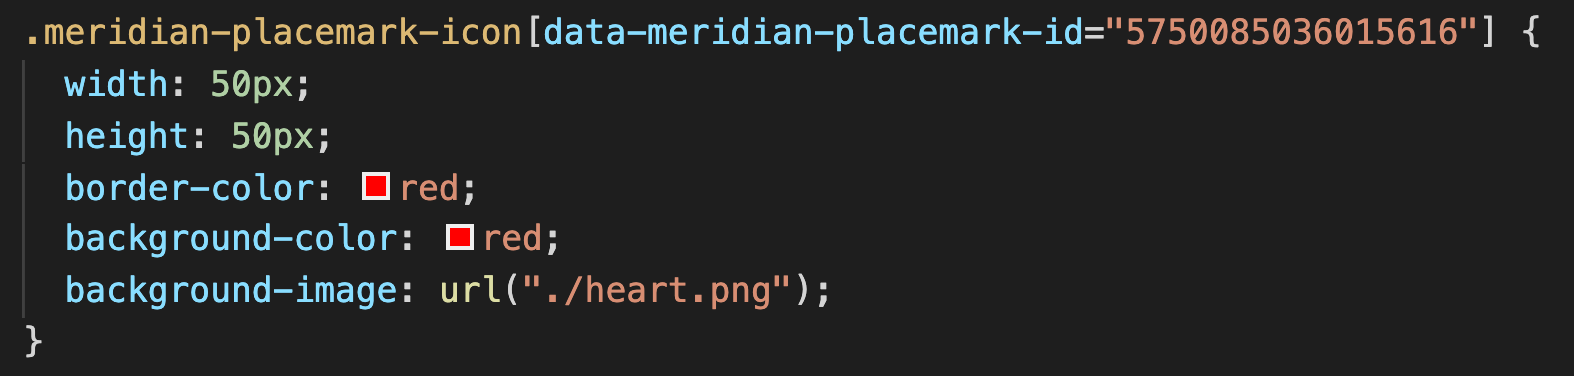
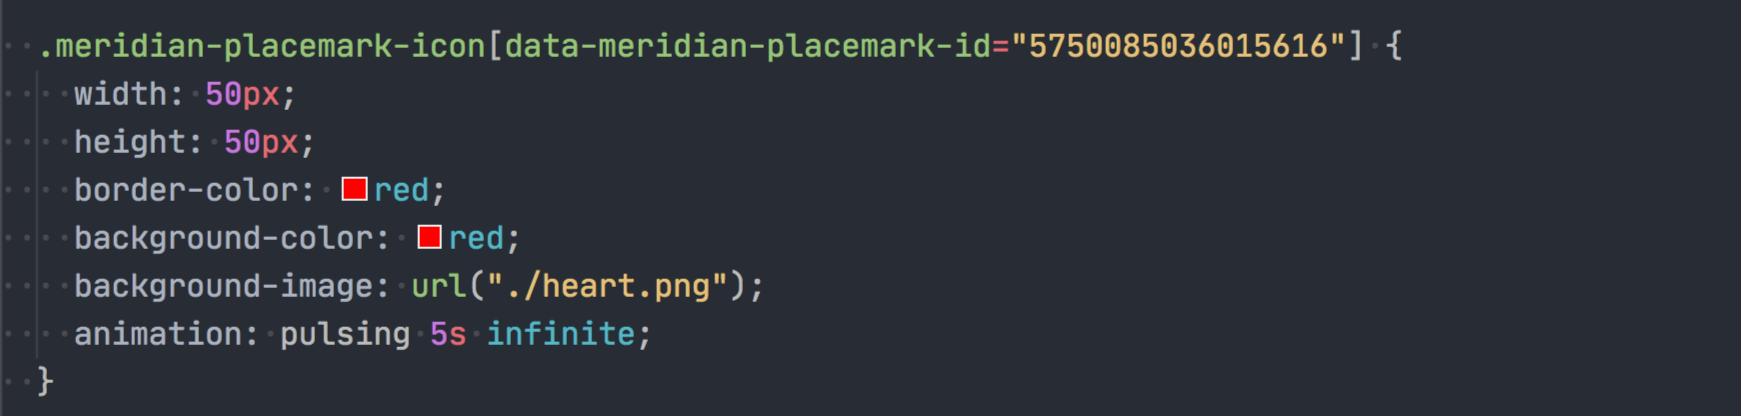
MRC-1129 Placemark targeting by category (#271)

Changed region(s): [[0.0, 0.1755, 0.5292, 0.9654], [0.0, 0.0293, 0.9962, 0.1463]]

diff --git a/demo/placemark-customization/index.html b/demo/placemark-customization/index.html
@@ -36,7 +36,7 @@
         margin: auto;
         border: 1px solid #ccc;
       }
-
+      
       .meridian-placemark-icon[data-meridian-placemark-id="5750085036015616"] {
         width: 50px;
         height: 50px;
@@ -44,6 +44,13 @@
         background-color: red;
         background-image: url("./heart.png");
         animation: pulsing 5s infinite;
+      }
+
+      body .meridian-placemark-category-available {
+        border-color: green;
+        background-color: green;
+        width: 50px;
+        height: 50px;
       }
 
       @keyframes pulsing {
@@ -60,9 +67,12 @@
         <div class="controls-container">
           <div class="controls">
             <span>
-              The custom placemark styling can be achieved using the placemark ID with the
-              following code:<br/>
-              <img src="code.png" alt="code block" id="image-code" width="468" height="125" />
+              Styling by ID:<br/>
+              <img src="code.png" alt="code block" id="image-code" width="468" />
+            </span>
+            <span>
+              Styling by Category:<br/>
+              <img src="code2.png" alt="code block" id="image-code" width="468" />
             </span>
           </div>
         </div>

diff --git a/src/Placemark.tsx b/src/Placemark.tsx
@@ -7,6 +7,7 @@
 
 import { FunctionComponent, h } from "preact";
 import { css, cx, mixins, theme } from "./style";
+import { getPlacemarkCategories } from "./util";
 import {
   CreateMapPlacemarksOptions,
   PlacemarkData,
@@ -87,7 +88,13 @@ const Placemark: FunctionComponent<PlacemarkProps> = ({
     >
       <button
         disabled={disabled}
-        className={iconClassName}
+        className={cx(
+          getPlacemarkCategories(data).map((category: string) => {
+            category = category.replace(/ /g, "-").replace(/[^a-z0-9_-]/i, "").toLowerCase();
+            return `meridian-placemark-category-${category}`;
+          }),
+          iconClassName
+        )}
         data-meridian-placemark-id={placemark_id}
         style={{
           "--meridian-placemark-iconURL": `url('${iconURL}')`,

diff --git a/src/util.ts b/src/util.ts
@@ -3,7 +3,7 @@
  * @packageDocumentation
  */
 
-import { EnvOptions, TagData } from "./web-sdk";
+import { EnvOptions, TagData, PlacemarkData } from "./web-sdk";
 
 // Make some logging helpers so that we don't need to ignore ESLint when we
 // actually want to log things to the console, plus ensure that we always
@@ -48,6 +48,12 @@ export function createSearchMatcher(query: string) {
 
 export function getTagLabels(tag: TagData) {
   return (tag.tags || []).map((tag: Record<string, any>) => tag.name);
+}
+
+export function getPlacemarkCategories(placemark: PlacemarkData) {
+  return (placemark.categories || []).map(
+    (category: Record<string, any>) => category.name
+  );
 }
 
 export function requiredParam(funcName: string, argName: string) {

diff --git a/.eslintrc.js b/.eslintrc.js
@@ -27,16 +27,15 @@ module.exports = {
       }
     ],
     "consistent-return": "error",
-    "no-unused-vars": "error",
     "no-console": "warn",
     "@typescript-eslint/no-unused-vars": ["error", { argsIgnorePattern: "^_" }],
-    "no-console": "warn",
     "jest/expect-expect": "off",
     "jest/valid-expect-in-promise": "off",
     "@typescript-eslint/no-use-before-define": "off",
     "@typescript-eslint/no-explicit-any": "off",
     "@typescript-eslint/explicit-function-return-type": "off",
     "@typescript-eslint/camelcase": "off",
-    "@typescript-eslint/no-empty-function": "off"
+    "@typescript-eslint/no-empty-function": "off",
+    "@typescript-eslint/explicit-module-boundary-types": "off"
   }
 };

diff --git a/demo/cypress/utils/mock-placemarks.js b/demo/cypress/utils/mock-placemarks.js
@@ -572,7 +572,7 @@ export default {
       deep_link: null,
       is_disabled: false,
       category_ids: [],
-      categories: []
+      categories: [{id: "6286567746830336", name: "Available"}, {id: "6286567746830337", name: "Conference Room"}]
     },
     {
       id: "5755685136498688_5718998062727168",

diff --git a/CHANGELOG.md b/CHANGELOG.md
@@ -5,6 +5,13 @@ All notable changes to this project will be documented in this file.
 The format is based on [Keep a Changelog](https://keepachangelog.com/en/1.0.0/),
 and this project adheres to [Semantic Versioning](https://semver.org/spec/v2.0.0.html).
 
+## [0.23.0] - 2021-07-20
+
+### Added
+
+- Placemark Category selectors `body .meridian-placemark-category-{CATEGORY_NAME}`
+- Added additional example for styling a Placemark based on Category name. 
+
 ## [0.22.0] - 2021-06-03
 
 ### Fixed
